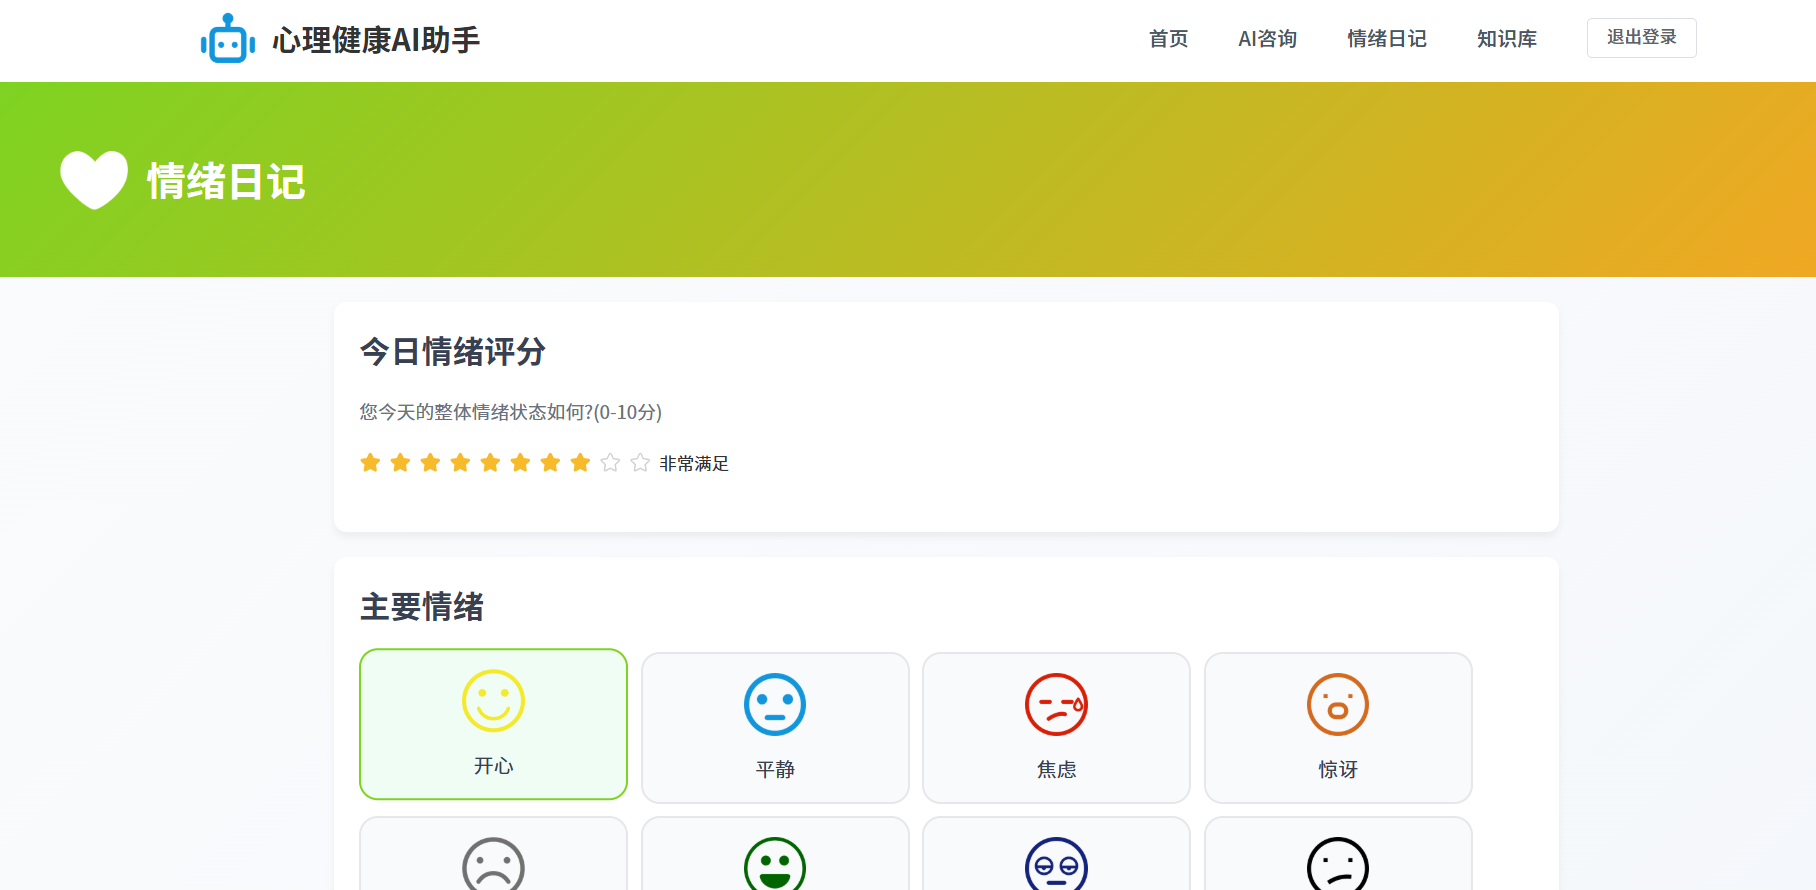
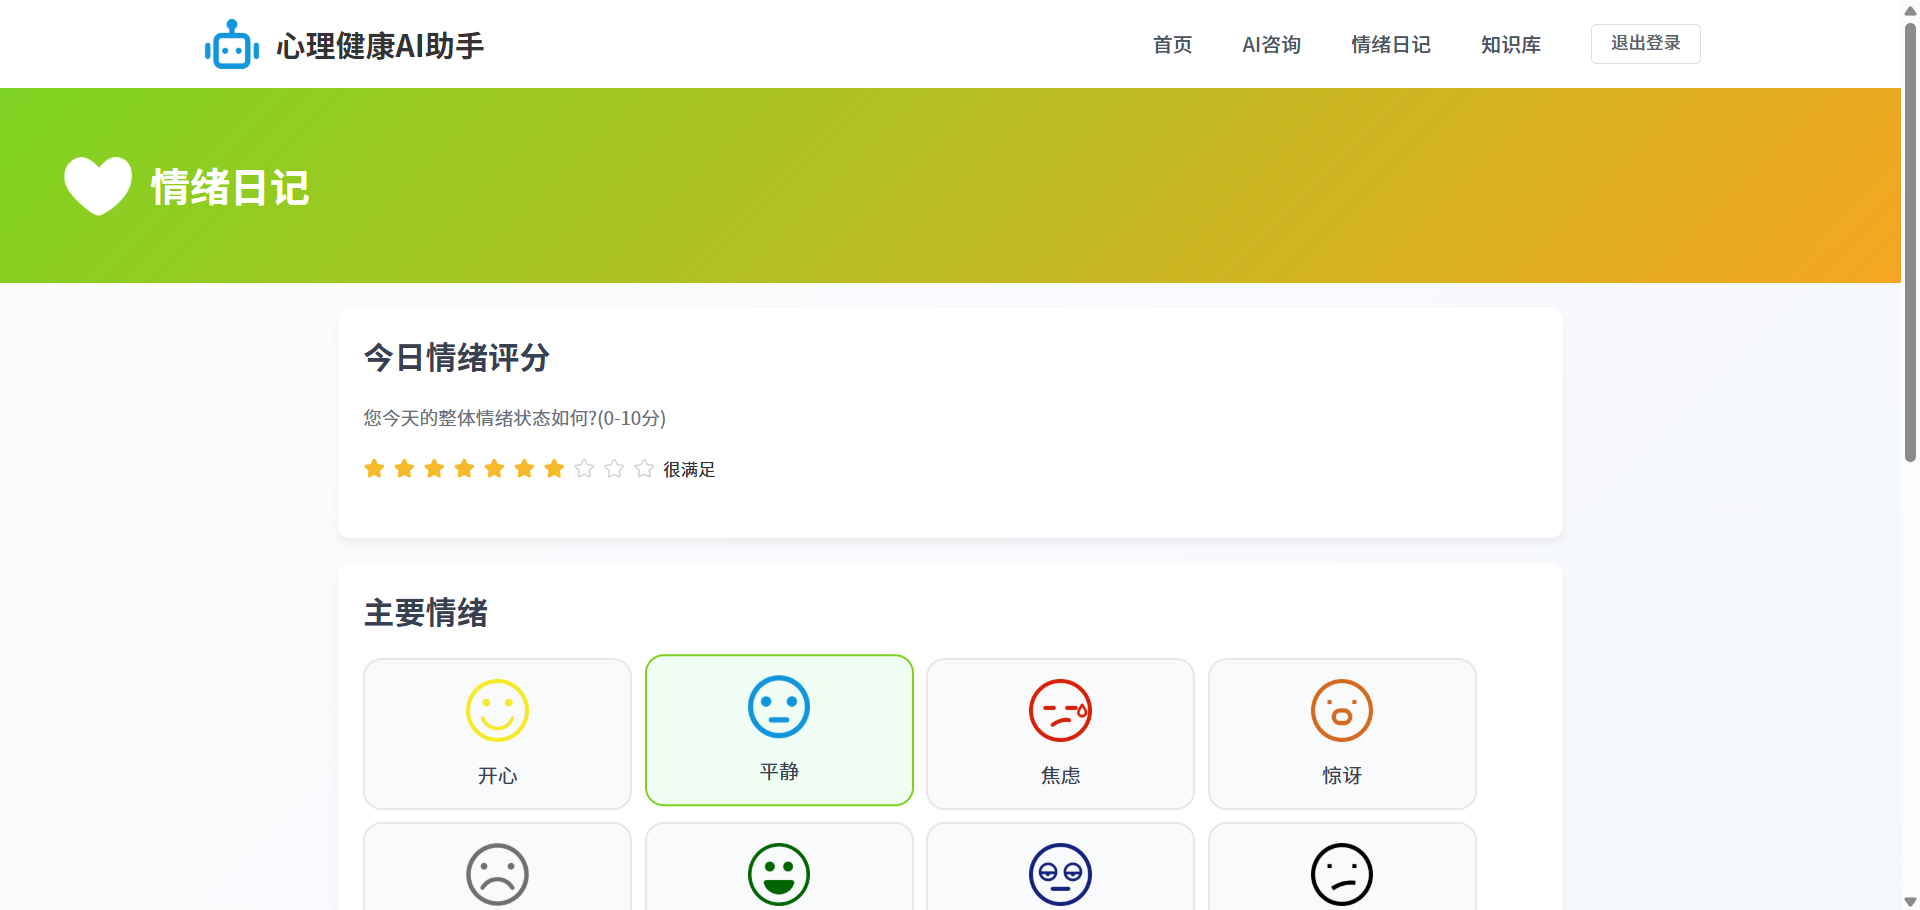
update-readme-screenshots

diff --git a/README.md b/README.md
@@ -22,9 +22,13 @@
 
 ![后台数据分析界面](docs/images/dashboard.png)
 
-### 后台咨询记录
+### 后台知识文章
 
-![后台咨询记录界面](docs/images/consultation-records.png)
+![后台知识文章界面](docs/images/knowledge-management.png)
+
+### 后台情绪日志
+
+![后台情绪日志界面](docs/images/emotion-logs.png)
 
 ## 三、核心功能
 